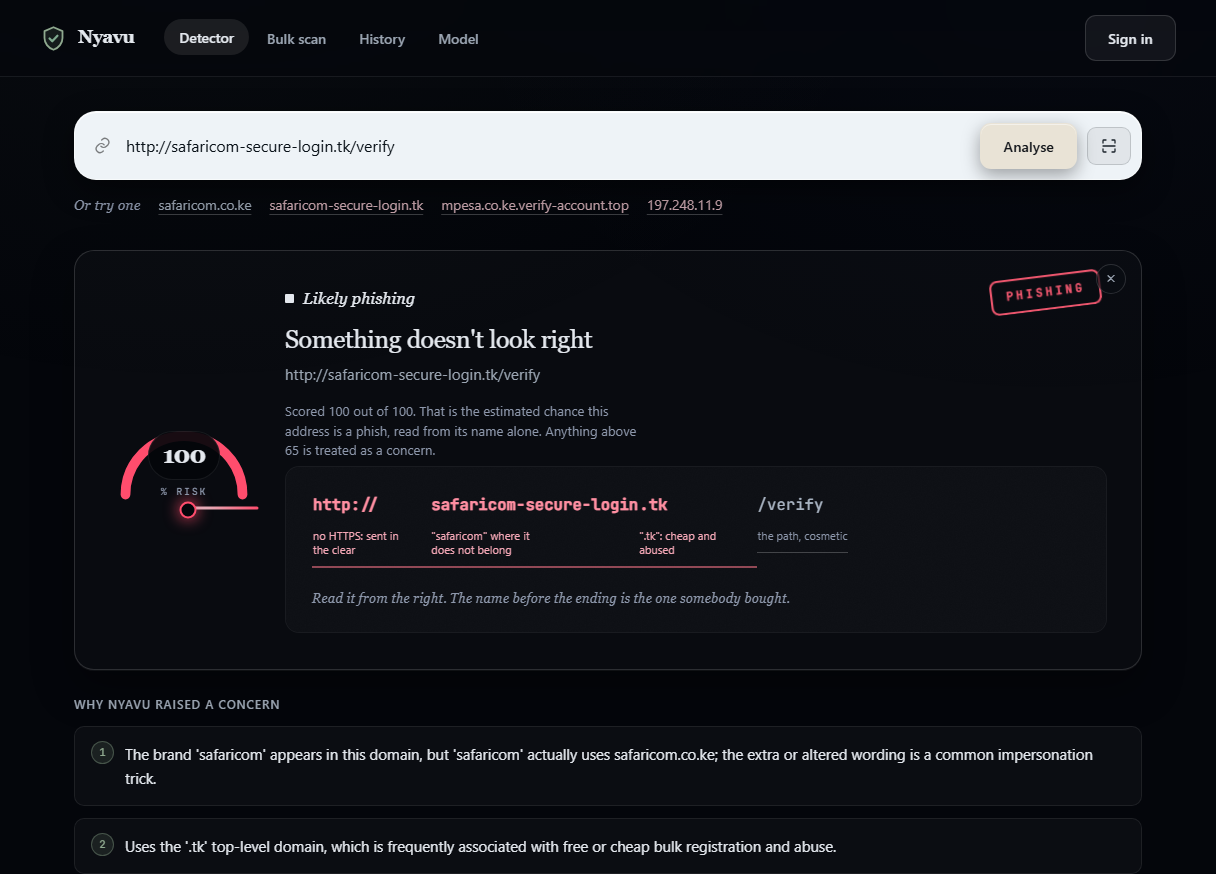
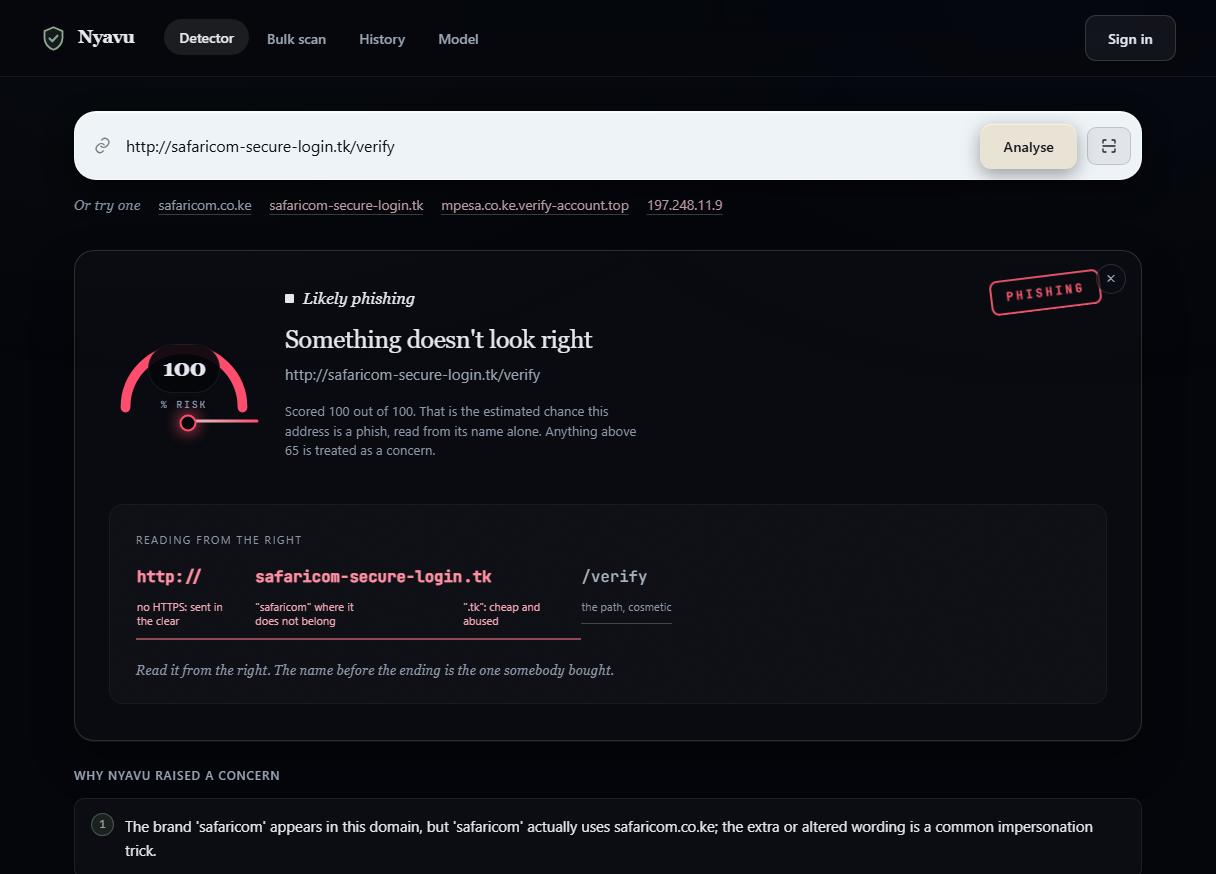
Read it from the right, and show the reading happening
The dissection annotated left to right, which described the rule your copy states and
contradicted it at the same time. It now works in reading order for an address: the ending
first, then the name, then the labels, then the scheme, with a cursor stepping leftwards
as each note lands and a quiet "reading from the right" line above it. The closing line
waits until the sweep is done.

- the cursor is a real element the script moves to each piece: left and width animate, then
  the note arrives eighty milliseconds later, which is what makes it read as something
  working rather than something appearing
- reduced motion hides the cursor and the blink, and the notes simply settle

Layout
- the dissection was inside the verdict text column, so it sat indented and left a hole in
  the card while the reading happened. It is a row of its own now, spanning both columns in
  the pending and the finished state
- the reserved space for the heading is gone: the reveal animates, so the card can be
  compact while it works

diff --git a/app/static/styles.css b/app/static/styles.css
@@ -3446,3 +3446,107 @@ code, kbd, samp{
   font-size: clamp(2.2rem, 3.2vw, 3.15rem) !important;
   line-height: 1.08 !important;
 }
+
+/* =====================================================================
+   Read from the right
+
+   The pieces are annotated in reading order, which for an address means the last one
+   first. A cursor steps along with the annotation so the order is demonstrated: it moves
+   leftwards from the ending to the scheme, and each note lands as it arrives.
+   ===================================================================== */
+.autopsy-line { position: relative; }
+
+.autopsy-head {
+  display: flex;
+  align-items: center;
+  gap: 8px;
+  margin: 0 0 12px;
+  min-height: 14px;
+}
+
+.autopsy-mode {
+  font-family: var(--font-body);
+  font-size: 0.68rem;
+  letter-spacing: 0.14em;
+  text-transform: uppercase;
+  color: var(--faint);
+  opacity: 0;
+  transform: translateX(4px);
+  transition: opacity .5s ease, transform .5s ease;
+}
+
+.autopsy.live .autopsy-mode { opacity: 1; transform: none; }
+
+.autopsy-mode::after {
+  content: "";
+  display: inline-block;
+  width: 1px;
+  height: 11px;
+  margin-left: 7px;
+  background: var(--accent);
+  vertical-align: -2px;
+  animation: caretBlink 1s steps(1) infinite;
+}
+
+@keyframes caretBlink { 50% { opacity: 0; } }
+
+/* the cursor that steps from the ending to the scheme */
+.autopsy-caret {
+  position: absolute;
+  bottom: 26px;
+  left: 100%;
+  width: 0;
+  height: 2px;
+  background: var(--accent);
+  box-shadow: 0 0 10px rgba(143, 169, 143, .55);
+  opacity: 0;
+  transition: left .34s cubic-bezier(.22, 1, .36, 1),
+              width .28s ease,
+              opacity .2s ease;
+  pointer-events: none;
+}
+
+.autopsy-caret.on { opacity: 1; }
+
+/* the note lands a touch after the cursor arrives */
+.seg.on .seg-note { transition-delay: .08s; }
+
+@media (prefers-reduced-motion: reduce) {
+  .autopsy-caret { display: none; }
+  .autopsy-mode::after { animation: none; }
+}
+
+/* the reserved space is no longer needed: the reveal animates, so the card can be
+   compact while it works and open when the verdict lands */
+.result.pending .verdict-text h2,
+.result.pending .verdict-text .badge {
+  display: none !important;
+  visibility: visible !important;
+}
+
+.result.pending .verdict-text { padding-top: 0 !important; }
+
+/* the cursor should be unmistakable, and the closing line waits for the sweep */
+.autopsy-caret {
+  height: 3px !important;
+  background: #B9CBB9 !important;
+  box-shadow: 0 0 14px rgba(185, 203, 185, .75) !important;
+}
+
+.autopsy-caption { opacity: 0 !important; transition: opacity .6s ease; }
+.autopsy.swept .autopsy-caption { opacity: 1 !important; }
+
+.autopsy-head { margin-bottom: 16px; }
+
+/* the dissection spans the card rather than sitting in the narrow text column, in both
+   the pending and the finished state, so nothing jumps when the verdict lands */
+.verdict-head .autopsy {
+  grid-column: 1 / -1;
+  margin-top: 18px;
+}
+
+.result.pending .verdict-head .autopsy { margin-top: 14px; }
+
+@media (max-width: 700px) {
+  .verdict-head .autopsy { grid-column: 1 / -1; }
+}

diff --git a/app/static/app.js b/app/static/app.js
@@ -403,8 +403,28 @@
       say("Reading the address");
     });
 
-    segs.forEach((seg, i) => {
-      delay(900 + i * 150, () => seg.classList.add("on"));
+    /* Read it from the right: the pieces are annotated in that order, and a cursor
+       steps along with them, so the order is shown rather than described. */
+    const caret = autopsy ? autopsy.querySelector(".autopsy-caret") : null;
+    const stepTo = (seg) => {
+      if (!caret) return;
+      caret.style.left = seg.offsetLeft + "px";
+      caret.style.width = Math.max(12, seg.offsetWidth) + "px";
+      caret.classList.add("on");
+    };
+
+    const order = [...segs].reverse();
+    order.forEach((seg, i) => {
+      delay(800 + i * 210, () => {
+        stepTo(seg);
+        seg.classList.add("on");
+      });
+    });
+
+    delay(800 + order.length * 210 + 140, () => {
+      if (caret) caret.classList.remove("on");
+      // the closing line lands after the sweep, not before it
+      if (autopsy) autopsy.classList.add("swept");
     });
 
     const flagged = segs.filter((el) => el.classList.contains("flag"));
@@ -558,9 +578,8 @@
           <p class="verdict-url">${escapeHtml(r.url)}</p>
           <p class="score-note">${scoreNote}</p>
           <div class="stamp ${r.risk}" aria-hidden="true">${r.risk === "high" ? "phishing" : r.risk === "medium" ? "unsure" : "clear"}</div>
-
-        ${autopsyMarkup(r)}
         </div>
+        ${autopsyMarkup(r)}
       </div>
       <div class="thinking-row">
         <p class="thinking" id="thinking"><span class="dot"></span><span class="phase">Reading the address</span></p>

diff --git a/app/static/autopsy.js b/app/static/autopsy.js
@@ -170,7 +170,10 @@ function autopsyMarkup(r) {
   }
 
   return `<div class="autopsy ${flagged === 0 ? "clean" : "risky"}" data-flags="${flagged}">
-      <div class="autopsy-line">${items.join("")}</div>
+      <div class="autopsy-head">
+        <span class="autopsy-mode">reading from the right</span>
+      </div>
+      <div class="autopsy-line"><span class="autopsy-caret" aria-hidden="true"></span>${items.join("")}</div>
       <p class="autopsy-caption">${caption}</p>
     </div>`;
 }
